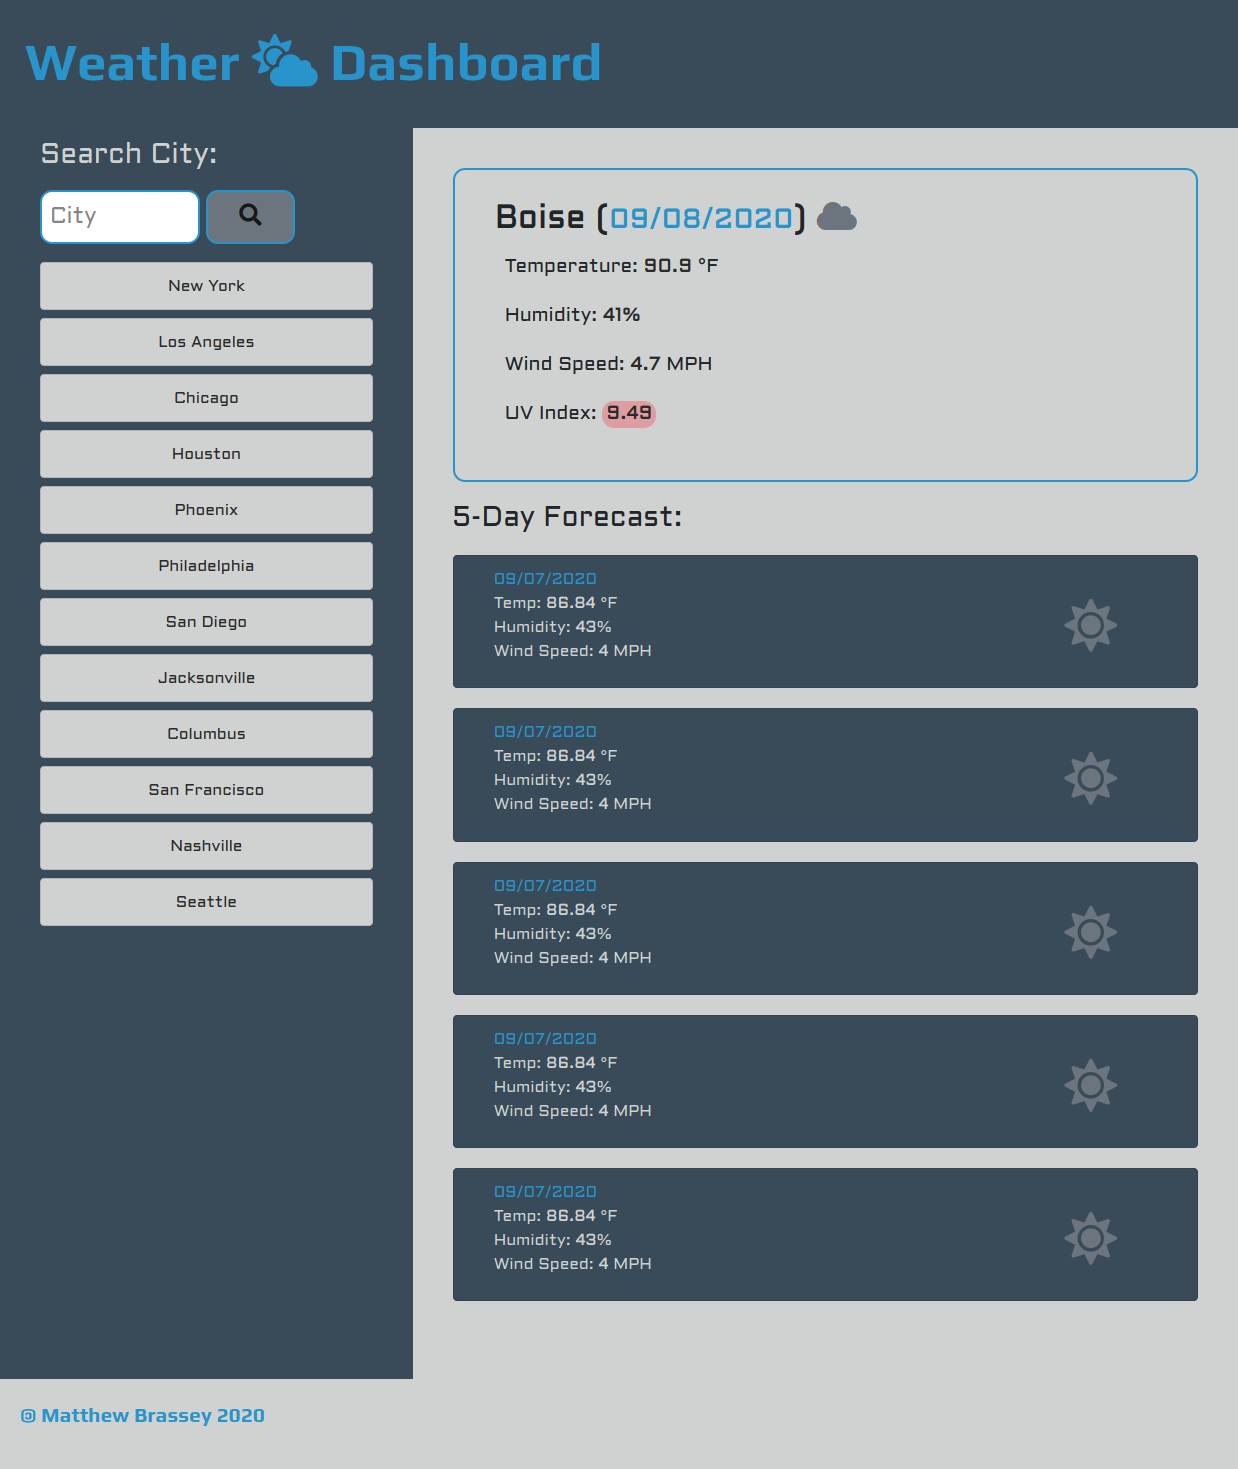
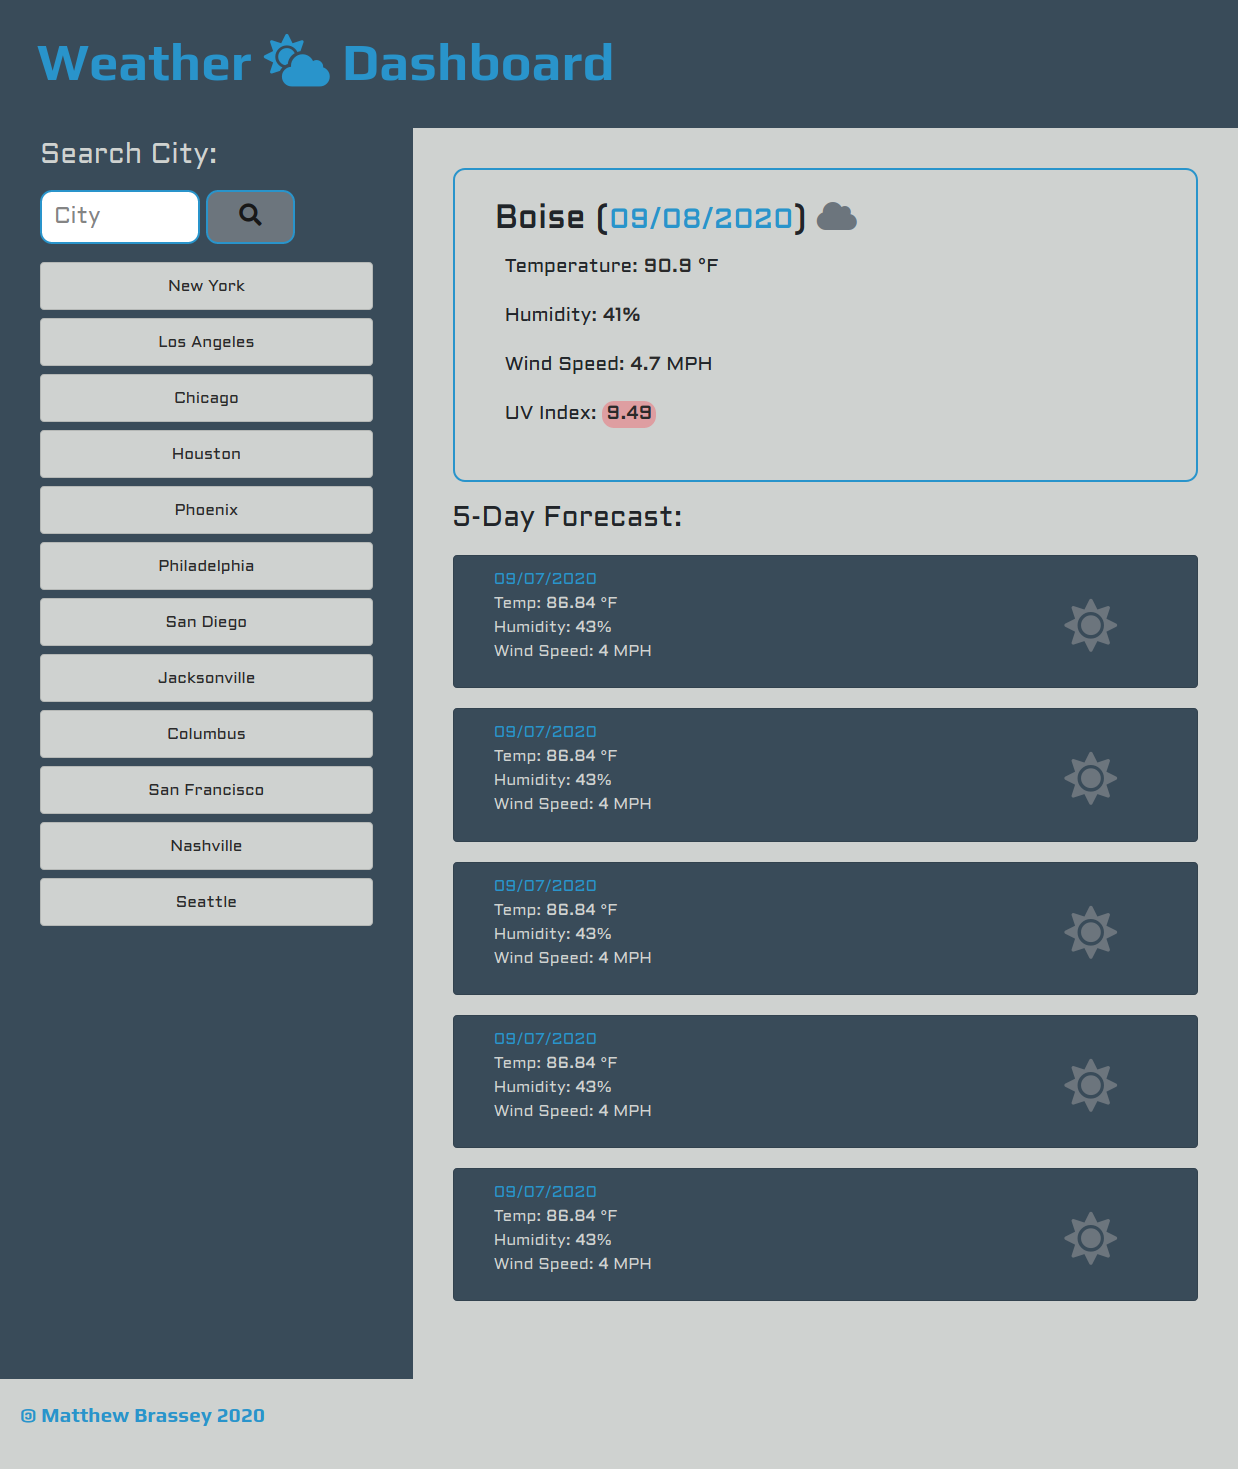
Updated Preview.png

Changed region(s): [[0.0, 0.0306, 0.4911, 0.0613], [0.0307, 0.1225, 0.0921, 0.1532]]

diff --git a/assets/css/style.css b/assets/css/style.css
@@ -40,6 +40,7 @@ header h1 {
     margin-bottom: 5px;
     margin-top: 0;
     font-size: 3.3rem;
+    padding-left: 12px;
 }
 
 li {
@@ -58,6 +59,7 @@ form input {
     outline: none;
     border: none;
     padding: 8px;
+    padding-left: 12px;
     width: 100%;
     min-width: 121px;
     font-size: 1.4rem;
